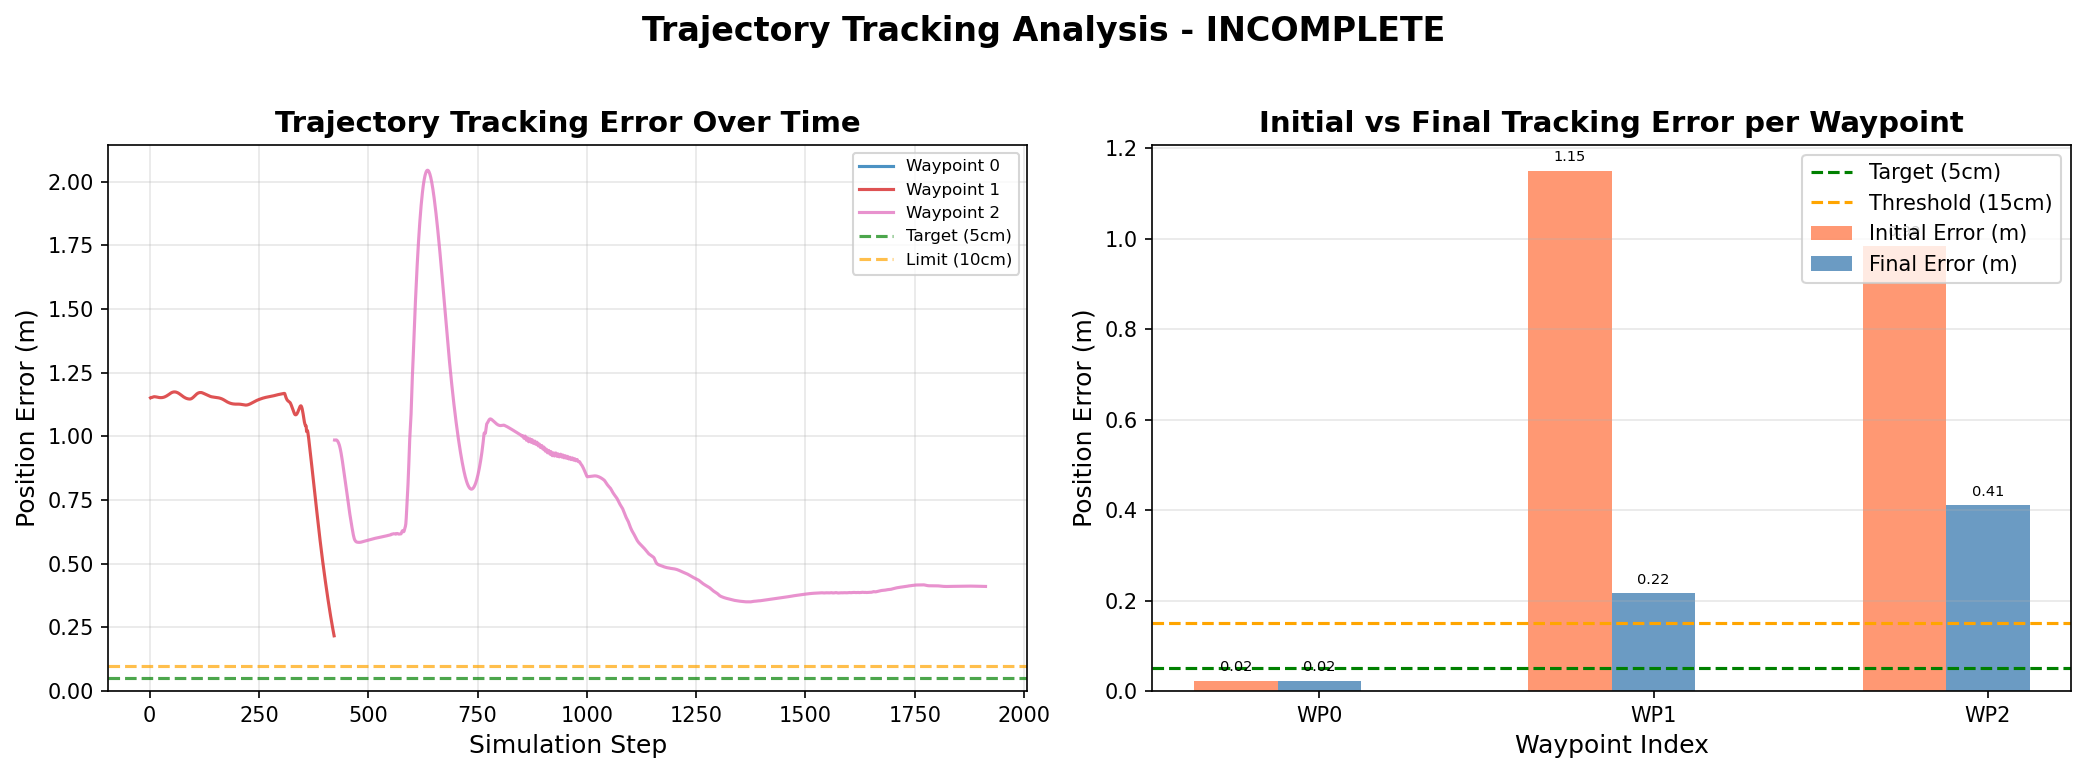
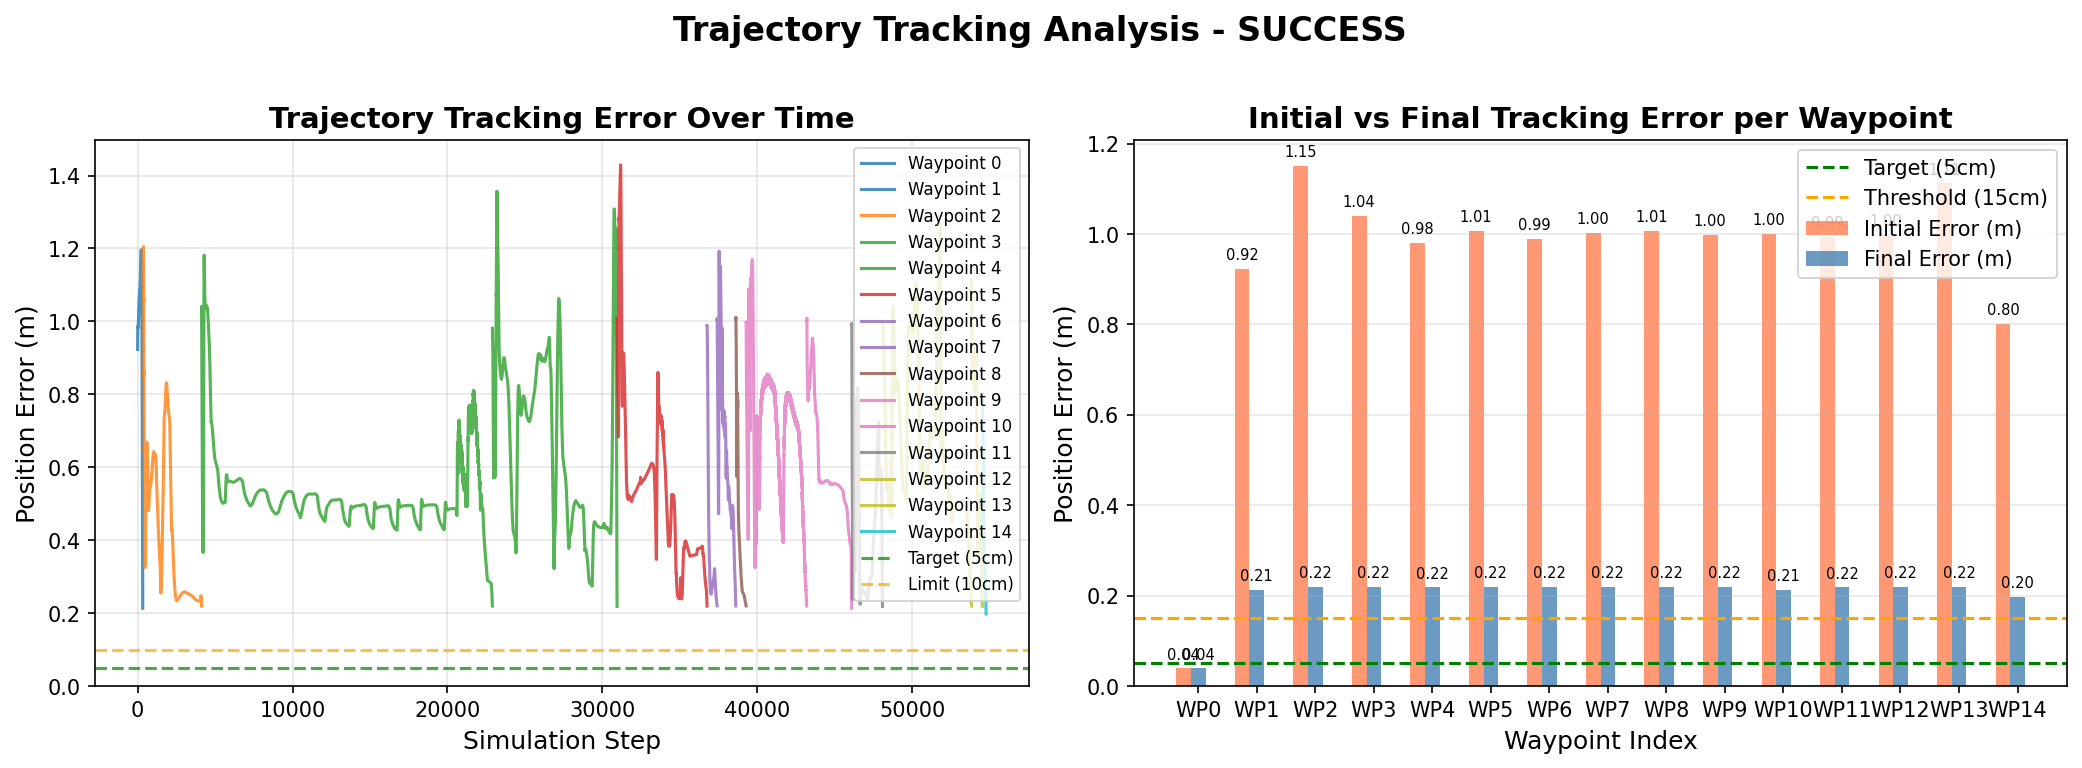
Added screenshots

diff --git a/Project1/wall_crawler_mujoco.py b/Project1/wall_crawler_mujoco.py
@@ -850,11 +850,12 @@ class WallCrawlerMuJoCoSimulation:
         joint_vel = J_pinv @ task_vel
         
         # Apply to joints 1-6 only (not J7)
-        current_q = self.data.qpos[qpos_slice].copy()
+        # Update BOTH qpos AND ctrl to ensure arm actually moves
         dt = self.model.opt.timestep
         for i in range(6):
-            current_q[i] += joint_vel[i] * dt
-            self.data.ctrl[actuator_slice.start + i] = current_q[i]
+            new_q = self.data.qpos[qpos_slice.start + i] + joint_vel[i] * dt
+            self.data.qpos[qpos_slice.start + i] = new_q  # Update position state
+            self.data.ctrl[actuator_slice.start + i] = new_q  # Update control target
         
         return np.linalg.norm(pos_error), np.linalg.norm(orient_error)
     
@@ -1008,26 +1009,32 @@ class WallCrawlerMuJoCoSimulation:
         
         # ============================================================
         # CHECK IF READY TO START ROTATION
-        # Conditions: alignment error < threshold OR max time reached
+        # Must meet BOTH alignment AND position criteria
+        # With safety timeout to prevent infinite hanging
         # ============================================================
-        alignment_threshold_deg = 15.0  # Start rotation when < 15° error
+        alignment_threshold_deg = 15.0  # Allow up to 15° alignment error
         alignment_threshold_rad = np.radians(alignment_threshold_deg)
-        min_alignment_time = 0.5  # At least 0.5s of alignment before checking
-        max_alignment_time = 3.0  # Max 3s of alignment, then start anyway
+        position_threshold_mm = 80.0  # Must be within 80mm of screw
+        min_alignment_time = 0.3  # At least 0.3s of alignment before checking
+        max_alignment_time = 8.0  # Safety timeout after 8 seconds
         
         alignment_good = alignment_error < alignment_threshold_rad
+        position_good = pos_error * 1000 < position_threshold_mm  # Convert to mm
         time_ok = elapsed >= min_alignment_time
         timed_out = elapsed >= max_alignment_time
         
-        if (alignment_good and time_ok) or timed_out:
+        # Start when BOTH alignment AND position are good, OR if timed out
+        if (alignment_good and position_good and time_ok) or timed_out:
             error_deg = np.degrees(alignment_error)
-            if timed_out and not alignment_good:
+            if timed_out and not (alignment_good and position_good):
                 print(f"\n  ⚠ ALIGNMENT TIMEOUT after {elapsed:.1f}s")
-                print(f"     Alignment error: {error_deg:.1f}° (threshold: {alignment_threshold_deg}°)")
-                print(f"     Starting rotation anyway...")
+                print(f"     Alignment: {error_deg:.1f}° (threshold: {alignment_threshold_deg}°) {'✓' if alignment_good else '✗'}")
+                print(f"     Position: {pos_error*1000:.1f}mm (threshold: {position_threshold_mm}mm) {'✓' if position_good else '✗'}")
+                print(f"     Proceeding to rotation anyway...")
             else:
                 print(f"\n  ✅ ALIGNMENT COMPLETE in {elapsed:.1f}s")
-                print(f"     Final alignment error: {error_deg:.1f}°")
+                print(f"     Final alignment error: {error_deg:.1f}° (threshold: {alignment_threshold_deg}°)")
+                print(f"     Position error: {pos_error*1000:.1f}mm (threshold: {position_threshold_mm}mm)")
                 print(f"     Starting rotation phase...")
             
             # Store locked joint positions for rotation phase
@@ -1080,6 +1087,9 @@ class WallCrawlerMuJoCoSimulation:
         else:
             qpos_slice = self.right_arm_qpos_slice
             actuator_slice = self.right_arm_actuator_slice
+        
+        # Apply torque compensation for smooth motion during rotation
+        self._apply_torque_compensation(self._unscrew_arm)
         
         # Calculate rotation increment
         rotation_inc = self._unscrew_speed * self.model.opt.timestep
@@ -2132,6 +2142,11 @@ class WallCrawlerMuJoCoSimulation:
             
             # Get current waypoint index (use class attribute if available)
             current_wp_idx = getattr(self, '_current_waypoint_display_idx', 0)
+            total_waypoints = len(self.current_path)
+            
+            # Check if at final waypoint AND trajectory complete (for hiding markers)
+            is_final_and_arrived = (current_wp_idx >= total_waypoints - 1 and 
+                                   getattr(self, '_trajectory_complete', False))
             
             # Draw all waypoints with numbers
             for i, wp in enumerate(self.current_path):
@@ -2140,7 +2155,9 @@ class WallCrawlerMuJoCoSimulation:
                     color = COMPLETED_WP
                     size = 0.06
                 elif i == current_wp_idx:
-                    # Current target
+                    # Current target - SKIP drawing if at final waypoint and arrived
+                    if is_final_and_arrived:
+                        continue  # Skip yellow marker at final waypoint once arrived
                     color = CURRENT_WP
                     size = 0.10
                 else:
@@ -2166,29 +2183,40 @@ class WallCrawlerMuJoCoSimulation:
                 self._add_line_geom(scene, wp1.position, wp2.position, 
                                    size=line_width, rgba=line_color)
         
-        # 6. Draw current arm targets with highlights
-        # Use SMALL transparent markers so screw is visible through them
-        if self.left_target_position is not None:
-            # Small transparent ring instead of solid sphere (so screw shows through)
-            YELLOW_TRANSPARENT = (1.0, 1.0, 0.0, 0.25)  # Very transparent
-            self._add_marker_geom(scene, tuple(self.left_target_position), size=0.15, rgba=YELLOW_TRANSPARENT)
+        # Check if we're at the final waypoint (for hiding markers during screw animation)
+        is_final_waypoint = False
+        if self.current_path and len(self.current_path) > 0:
+            current_wp_idx = getattr(self, '_current_waypoint_display_idx', 0)
+            total_waypoints = len(self.current_path)
+            is_final_waypoint = current_wp_idx >= total_waypoints - 1
         
-        if self.right_target_position is not None:
-            # Transparent orange for second target
-            ORANGE_TRANSPARENT = (1.0, 0.6, 0.0, 0.25)
-            self._add_marker_geom(scene, tuple(self.right_target_position), size=0.12, rgba=ORANGE_TRANSPARENT)
+        # 6. Draw current arm targets with highlights (HIDE at final waypoint to see screw animation)
+        if not is_final_waypoint:
+            # Use SMALL transparent markers so screw is visible through them
+            if self.left_target_position is not None:
+                # Small transparent ring instead of solid sphere (so screw shows through)
+                YELLOW_TRANSPARENT = (1.0, 1.0, 0.0, 0.25)  # Very transparent
+                self._add_marker_geom(scene, tuple(self.left_target_position), size=0.15, rgba=YELLOW_TRANSPARENT)
+            
+            if self.right_target_position is not None:
+                # Transparent orange for second target
+                ORANGE_TRANSPARENT = (1.0, 0.6, 0.0, 0.25)
+                self._add_marker_geom(scene, tuple(self.right_target_position), size=0.12, rgba=ORANGE_TRANSPARENT)
         
         # 7. Draw trajectory line between anchors (BLUE line from left anchor to right target)
-        if self.left_anchor_position is not None and self.right_target_position is not None:
-            BRIGHT_BLUE = (0.2, 0.6, 1.0, 0.9)
-            self._add_line_geom(scene, 
-                               tuple(self.left_anchor_position), 
-                               tuple(self.right_target_position), 
-                               size=0.02,
-                               rgba=BRIGHT_BLUE)
+        # Also hide at final waypoint
+        if not is_final_waypoint:
+            if self.left_anchor_position is not None and self.right_target_position is not None:
+                BRIGHT_BLUE = (0.2, 0.6, 1.0, 0.9)
+                self._add_line_geom(scene, 
+                                   tuple(self.left_anchor_position), 
+                                   tuple(self.right_target_position), 
+                                   size=0.02,
+                                   rgba=BRIGHT_BLUE)
         
-        # 8. Draw SCREW MARKER - big bright sphere at screw location
-        if getattr(self, '_screw_spawned', False):
+        # 8. Draw SCREW MARKER (HIDE at final waypoint to see screw+arm animation clearly)
+        # Only show during approach, not during unscrew animation
+        if getattr(self, '_screw_spawned', False) and not is_final_waypoint:
             screw_body_id = mujoco.mj_name2id(self.model, mujoco.mjtObj.mjOBJ_BODY, "screw")
             if screw_body_id != -1:
                 screw_pos = self.data.xpos[screw_body_id]
@@ -2963,6 +2991,7 @@ class WallCrawlerMuJoCoSimulation:
                                     print(f"  ➡  Right arm moving to WP{current_waypoint_idx+1}")
                                 else:
                                     crawl_phase = 'trajectory_complete'
+                                    self._trajectory_complete = True  # Flag for visualization
                                     print(f"\n🎉 TRAJECTORY COMPLETE!")
                         
                         if phase_timer >= settling_timeout:
@@ -3301,6 +3330,7 @@ class WallCrawlerMuJoCoSimulation:
                                     print(f"  🔓 RIGHT arm RELEASED (now FREE for screw task)")
                                 
                                 crawl_phase = 'trajectory_complete'
+                                self._trajectory_complete = True  # Flag for visualization
                                 print(f"\n🎉 TRAJECTORY COMPLETE!")
                                 print(f"  Final position on {current_target_wall} wall")
                                 body_pos = self.get_central_body_pos()
